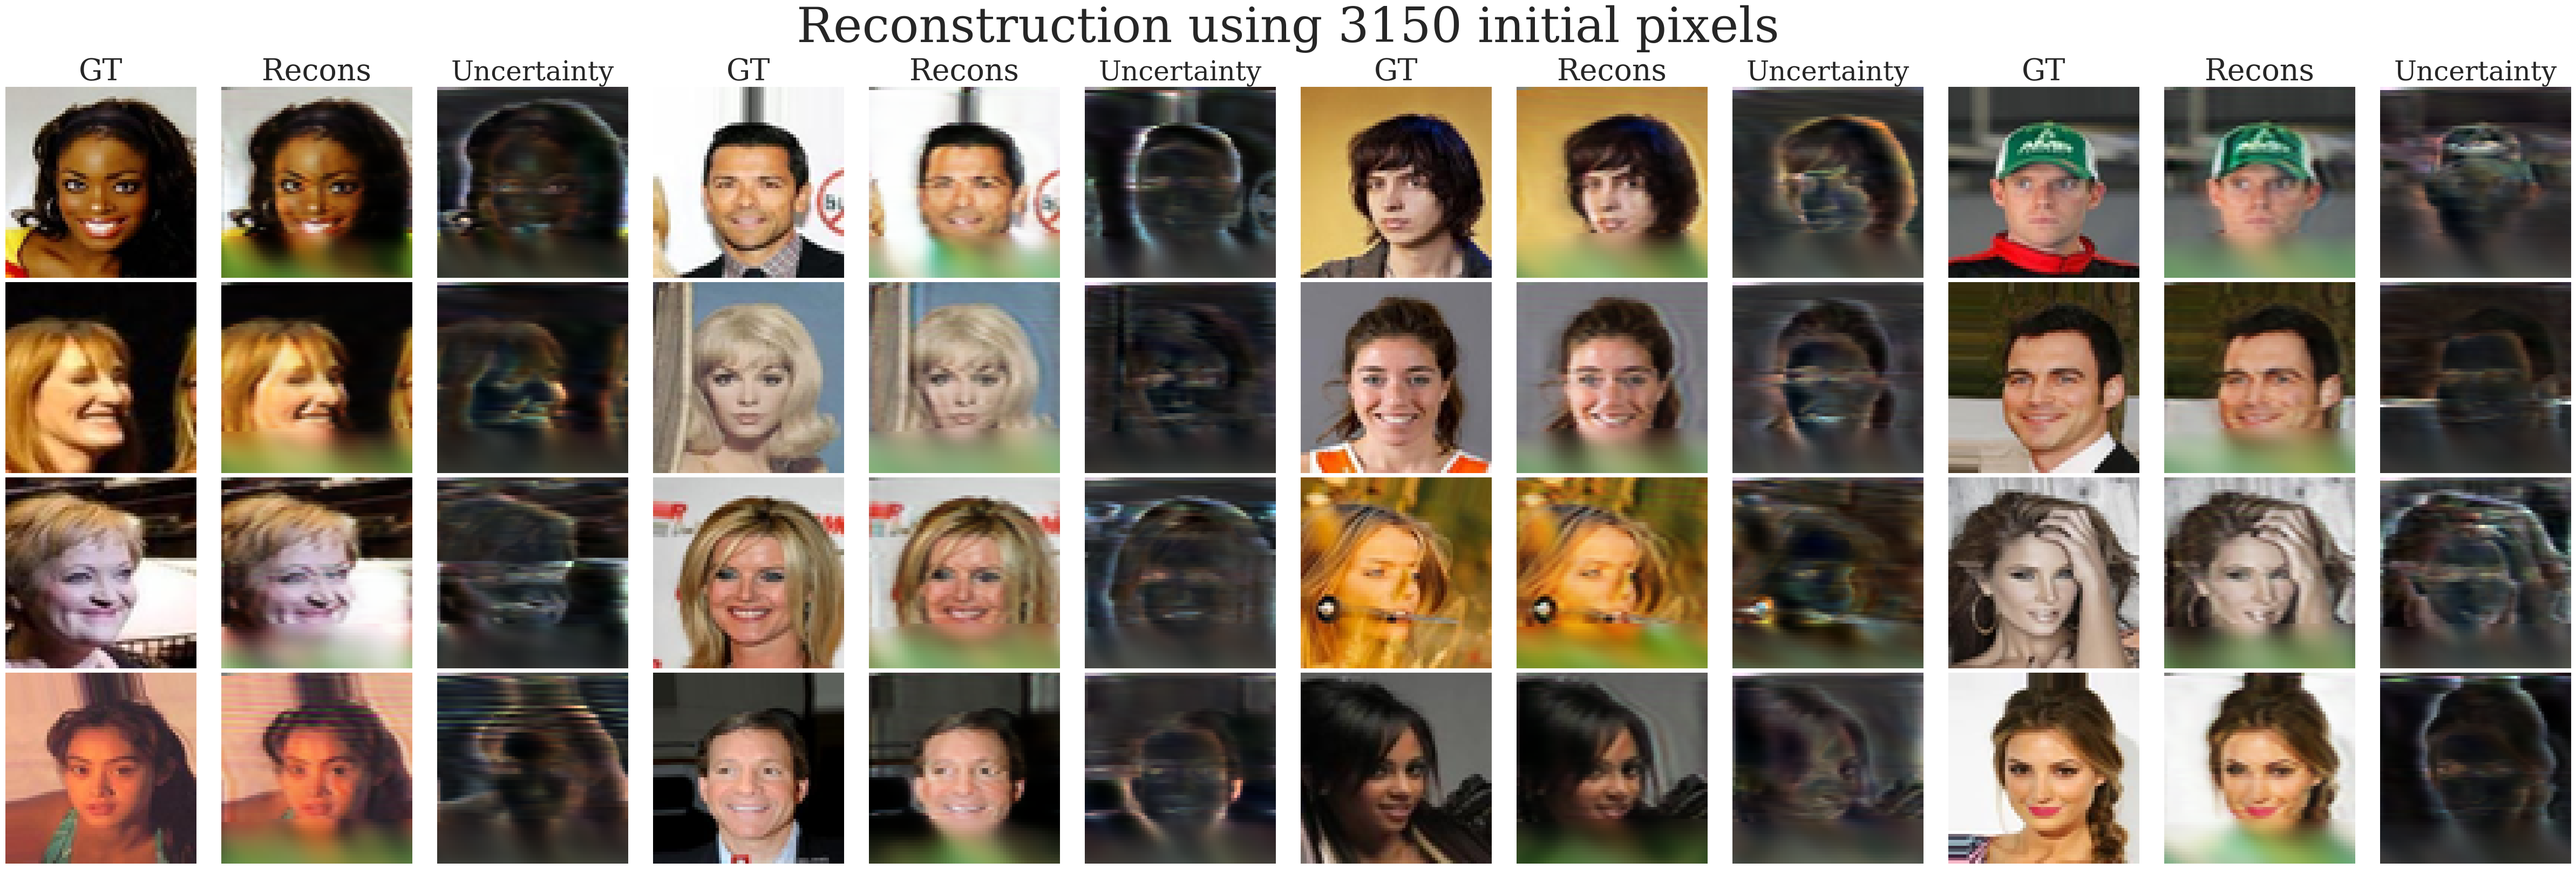
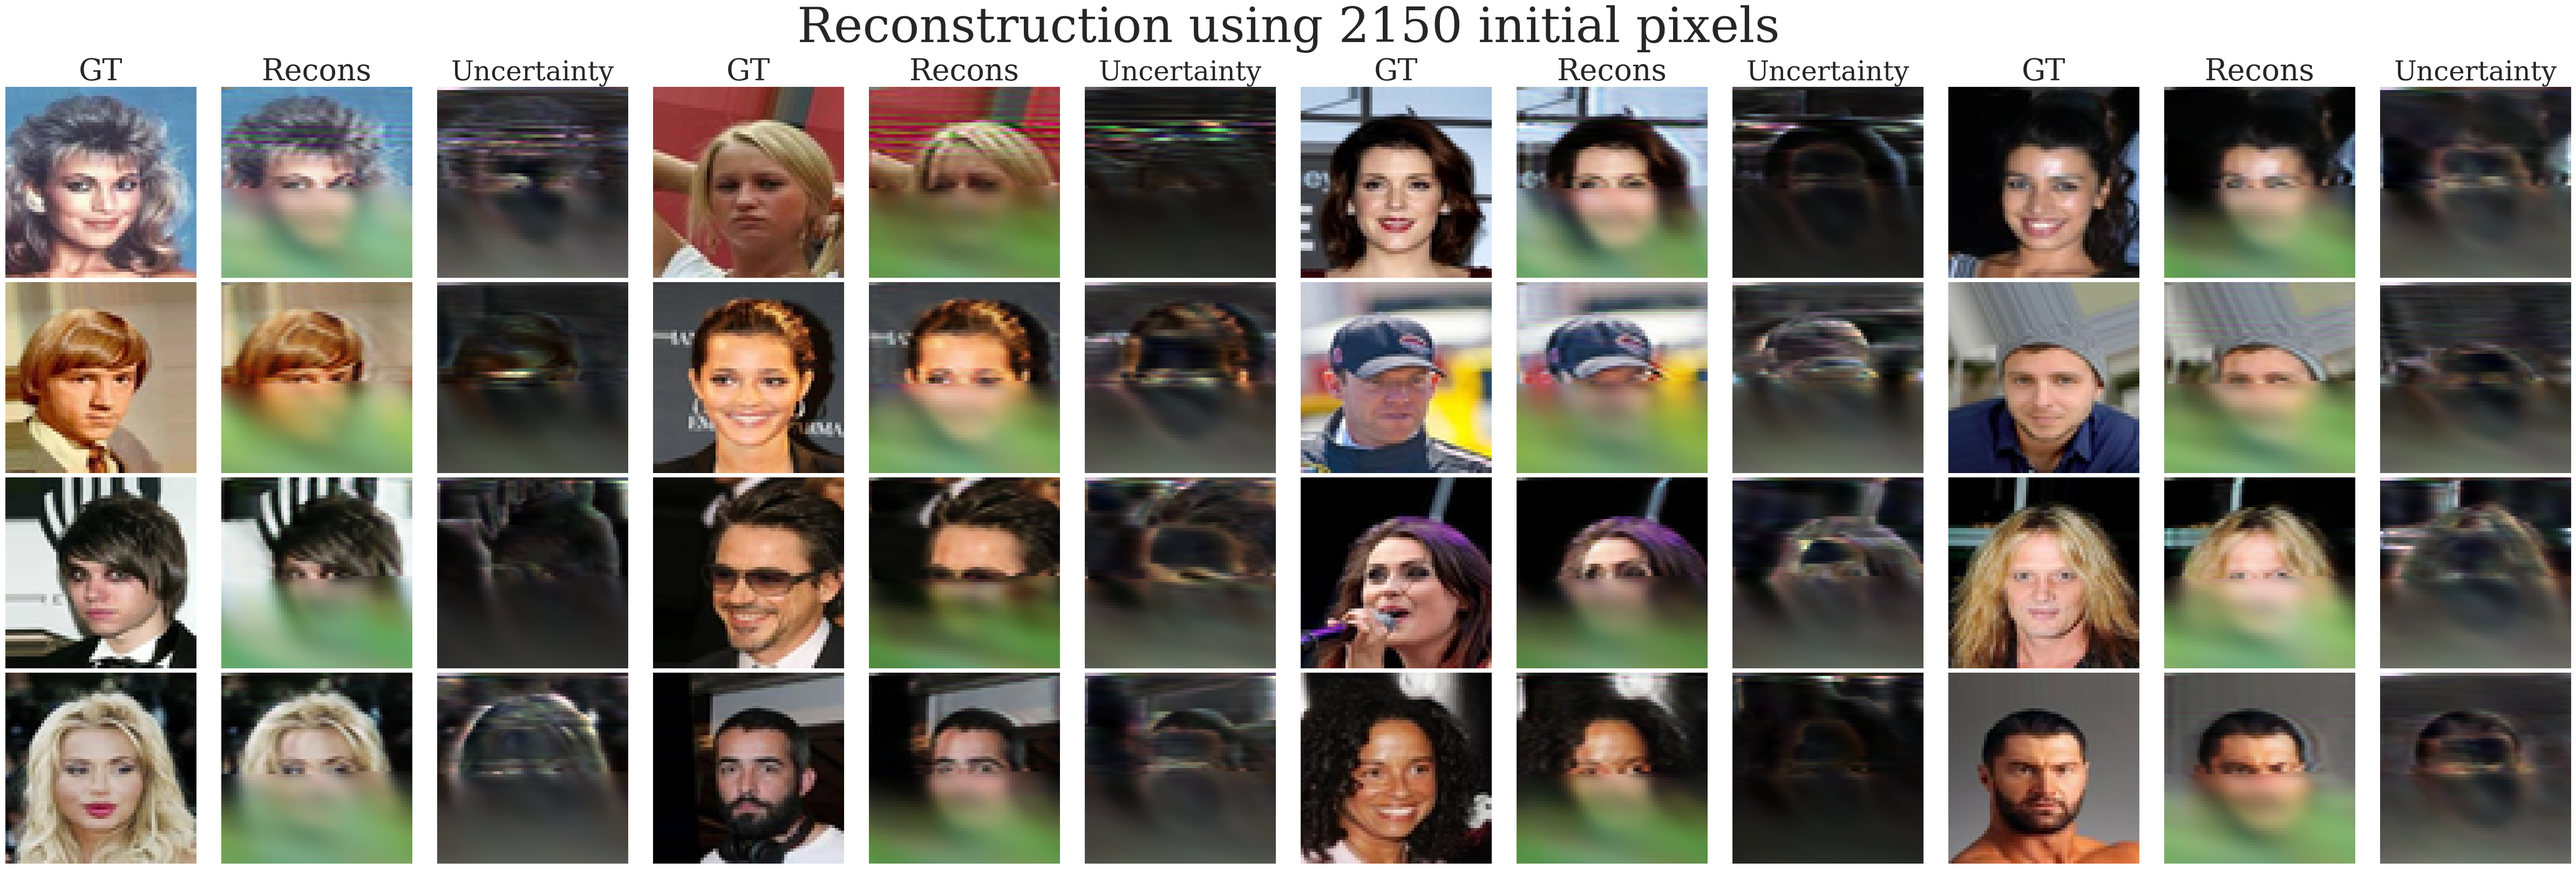
Readying things for videos

diff --git a/examples/time-series/legacy/main_actual_rnn.py b/examples/time-series/legacy/main_actual_rnn.py
@@ -65,6 +65,7 @@ mlp_hidden_size = 24*1
 mlp_depth = 3
 rnn_inner_dims = []
 nb_rnn_layers = len(rnn_inner_dims) + 1
+latent_size = 256
 
 ## Optimiser hps
 init_lr = 1e-4
@@ -83,7 +84,6 @@ supervision_task = "reconstruction"       ## True for classification, reconstruc
 mini_res_mnist = 1
 traj_train_prop = 1.0           ## Proportion of steps to sample to train each time series
 weights_lim = 5e+2              ## Limit the weights of the root model to this value
-weights_clip_scale = 2.         ## kappa from Weight Clipping paper
 nb_recons_loss_steps = -1        ## Number of steps to sample for the reconstruction loss
 train_strategy = "flip_coin"     ## "flip_coin", "teacher_forcing", "always_true"
 use_mse_loss = False
@@ -257,6 +257,7 @@ class Ses2Seq(eqx.Module):
     """ Sequence to sequence model which takes in an initial latent space """
     As: jnp.ndarray
     Bs: jnp.ndarray
+    Cs: jnp.ndarray
     thetas: jnp.ndarray
     std_lb: jnp.ndarray
 
@@ -295,32 +296,29 @@ class Ses2Seq(eqx.Module):
         root_utils = []
         As = []
         Bs = []
+        Cs = []
         for i in range(nb_rnn_layers):
-            root = RootMLP(1, rnn_out_layers[i], width, depth, builtin_fns[activation], key=keys[i])
-            params, static = eqx.partition(root, eqx.is_array)
-            weights, shapes, treedef = flatten_pytree(params)
-            root_utils.append((shapes, treedef, static, root.props))
-            thetas.append(weights)
+            # thetas.append(jnp.zeros((latent_size,)))
+            ## Initialise with noise
+            thetas.append(jax.random.normal(keys[i], (latent_size,)))
 
-            latent_size = weights.shape[0]
             A = jnp.eye(latent_size, latent_size) if full_matrix_A else jnp.ones((latent_size,))
             if use_theta_prev:
                 A = A*0.
+
             As.append(A)
-            Bs.append(jnp.zeros((latent_size, B_out_shapes[i])))
+            Bs.append(jnp.zeros((latent_size, data_size)))
+            Cs.append(jnp.zeros((out_size, latent_size)))
 
         self.root_utils = root_utils
         self.thetas = thetas
         self.As = As
         self.Bs = Bs
+        self.Cs = Cs
 
         self.inference_mode = False     ## Change to True to use the model autoregressively
         self.data_size = data_size
         self.std_lb = jnp.array([std_lower_bound])
-
-        # ## Set the global limits for the weights
-        # global network_clip 
-        # network_clip = (self.thetas*)
 
     def __call__(self, xs, ts, aux):
         """ xs: (batch, time, data_size)
@@ -348,7 +346,8 @@ class Ses2Seq(eqx.Module):
 
                     A = self.As[i]
                     B = self.Bs[i]
-                    root_utils = self.root_utils[i]
+                    # root_utils = self.root_utils[i]
+                    C = self.Cs[i]
 
                     if supervision_task=="classification":
                         x_t = x_true
@@ -378,15 +377,7 @@ class Ses2Seq(eqx.Module):
                         thet_next = A*thet + B@(x_t - x_prev_prev)
 
                     ## 2. Decode the latent space
-                    thet_next = jnp.clip(thet_next, -weights_lim, weights_lim)
-                    # jax.debug.print("Smallest and biggest values in thet_next: {} {}", jnp.min(thet_next), jnp.max(thet_next))
-
-                    shapes, treedef, static, _ = root_utils
-                    params = unflatten_pytree(thet_next, shapes, treedef)
-                    root_fun = eqx.combine(params, static)
-                    # ## Clip t between 0 and 1
-                    # t_curr = jnp.clip(self.t, 0., 1.)
-                    y_next = root_fun(t_curr + delta_t)
+                    y_next = C @ thet_next
 
                     if supervision_task=="classification":
                         x_next_mean = x_true
@@ -401,13 +392,6 @@ class Ses2Seq(eqx.Module):
 
                 sup_signal = xs_ if not final_layer else xs_orig        ## Supervisory signal
                 (thet_final, _, _, _, _), (xs_, ) = jax.lax.scan(f, (self.thetas[i], sup_signal[0], -ts_[1:2], sup_signal[0], 0), (sup_signal, ts_[:, None], keys))
-
-                if self.inference_mode and not autoregressive_inference and supervision_task!="classification": 
-                    ### We reconstitute the model, and we apply the model at each step
-                    shapes, treedef, static, _ = self.root_utils[i]
-                    params = unflatten_pytree(thet_final, shapes, treedef)
-                    root_fun = eqx.combine(params, static)
-                    xs_ = eqx.filter_vmap(root_fun)(ts_[:, None])
 
             return xs_
 

diff --git a/examples/time-series/main_wsm_VID.py b/examples/time-series/main_wsm_VID.py
@@ -61,7 +61,7 @@ np.random.seed(SEED)
 torch.manual_seed(SEED)
 
 ## Model hps
-mlp_hidden_size = 24*1
+mlp_hidden_size = 32*1
 mlp_depth = 3
 rnn_inner_dims = []
 nb_rnn_layers = len(rnn_inner_dims) + 1
@@ -73,26 +73,26 @@ lr_decrease_factor = 0.5        ## Reduce on plateau factor
 ## Training hps
 print_every = 1
 nb_epochs = 2*60*4
-batch_size = 64*2
+batch_size = 32*8
 unit_normalise = False
-grounding_length = 2150          ## The length of the grounding pixel for the autoregressive digit generation
-autoregressive_inference = True    ## Type of inference to use: If True, the model is autoregressive, else it remebers and regurgitates the same image 
+grounding_length = 150          ## The length of the grounding pixel for the autoregressive digit generation
+autoregressive_inference = True    ## Type of inference to use: If True, the model is autoregressive, else it remebers and regurgitates the same image
 full_matrix_A = True            ## Whether to use a full matrix A or a diagonal one
 use_theta_prev = False          ## Whether to use the previous pevious theta in the computation of the next one
 supervision_task = "reconstruction"       ## True for classification, reconstruction, or both
 mini_res_mnist = 1
 traj_train_prop = 1.0           ## Proportion of steps to sample to train each time series
 weights_lim = 5e+2              ## Limit the weights of the root model to this value
-weights_clip_scale = 2.         ## kappa from 
+weights_clip_scale = 2.         ## kappa from Weight Clipping paper
 nb_recons_loss_steps = -1        ## Number of steps to sample for the reconstruction loss
 train_strategy = "flip_coin"     ## "flip_coin", "teacher_forcing", "always_true"
 use_mse_loss = False
-resolution = (64, 64)
+resolution = (32, 32)
 forcing_prob = 0.15
 std_lower_bound = 1e-4              ## Let's optimise the lower bound
 print(f"==== {supervision_task.capitalize()} Task ====")
 
-train = False
+train = True
 dataset = "celeba"               ## mnist, cifar, or trends, mnist_fashion
 data_folder = "./data/" if train else "../../data/"
 image_datasets = ["mnist", "mnist_fashion", "cifar", "celeba"]
@@ -693,7 +693,7 @@ if os.path.exists(run_folder+"losses.npy"):
 
     ax = sbplot(epochs, clean_losses, label="All losses", x_label='Train Steps', y_label='Loss', ax=ax, dark_background=False, y_scale="linear" if not use_mse_loss else "log");
 
-    clean_losses = np.where(clean_losses<np.percentile(clean_losses, 86), clean_losses, np.nan)
+    clean_losses = np.where(clean_losses<np.percentile(clean_losses, 80), clean_losses, np.nan)
     ## Plot a second plot with the outliers removed
     ax2 = sbplot(epochs, clean_losses, label="96th Percentile", x_label='Train Steps', y_label='Loss', ax=ax2, dark_background=False, y_scale="linear" if not use_mse_loss else "log");
 
@@ -842,8 +842,7 @@ else:
 
 if not supervision_task=="classification":
     ## Set inference mode to True
-    if isinstance(model, Ses2Seq):
-        model = eqx.filter_jit(eqx.tree_at(lambda m:m.inference_mode, model, True))
+    model = eqx.tree_at(lambda m:m.inference_mode, model, True)
     visloader = NumpyLoader(testloader.dataset, batch_size=16, shuffle=True)
 
     nb_cols = 3 if not use_mse_loss else 2

diff --git a/examples/time-series/main_wsm_IMG.py b/examples/time-series/main_wsm_IMG.py
@@ -61,7 +61,7 @@ np.random.seed(SEED)
 torch.manual_seed(SEED)
 
 ## Model hps
-mlp_hidden_size = 24*1
+mlp_hidden_size = 32*1
 mlp_depth = 3
 rnn_inner_dims = []
 nb_rnn_layers = len(rnn_inner_dims) + 1
@@ -73,10 +73,10 @@ lr_decrease_factor = 0.5        ## Reduce on plateau factor
 ## Training hps
 print_every = 1
 nb_epochs = 2*60*4
-batch_size = 64*2*16
+batch_size = 32*8
 unit_normalise = False
 grounding_length = 150          ## The length of the grounding pixel for the autoregressive digit generation
-autoregressive_inference = True    ## Type of inference to use: If True, the model is autoregressive, else it remebers and regurgitates the same image 
+autoregressive_inference = True    ## Type of inference to use: If True, the model is autoregressive, else it remebers and regurgitates the same image
 full_matrix_A = True            ## Whether to use a full matrix A or a diagonal one
 use_theta_prev = False          ## Whether to use the previous pevious theta in the computation of the next one
 supervision_task = "reconstruction"       ## True for classification, reconstruction, or both
@@ -87,7 +87,7 @@ weights_clip_scale = 2.         ## kappa from Weight Clipping paper
 nb_recons_loss_steps = -1        ## Number of steps to sample for the reconstruction loss
 train_strategy = "flip_coin"     ## "flip_coin", "teacher_forcing", "always_true"
 use_mse_loss = False
-resolution = (16, 16)
+resolution = (32, 32)
 forcing_prob = 0.15
 std_lower_bound = 1e-4              ## Let's optimise the lower bound
 print(f"==== {supervision_task.capitalize()} Task ====")
